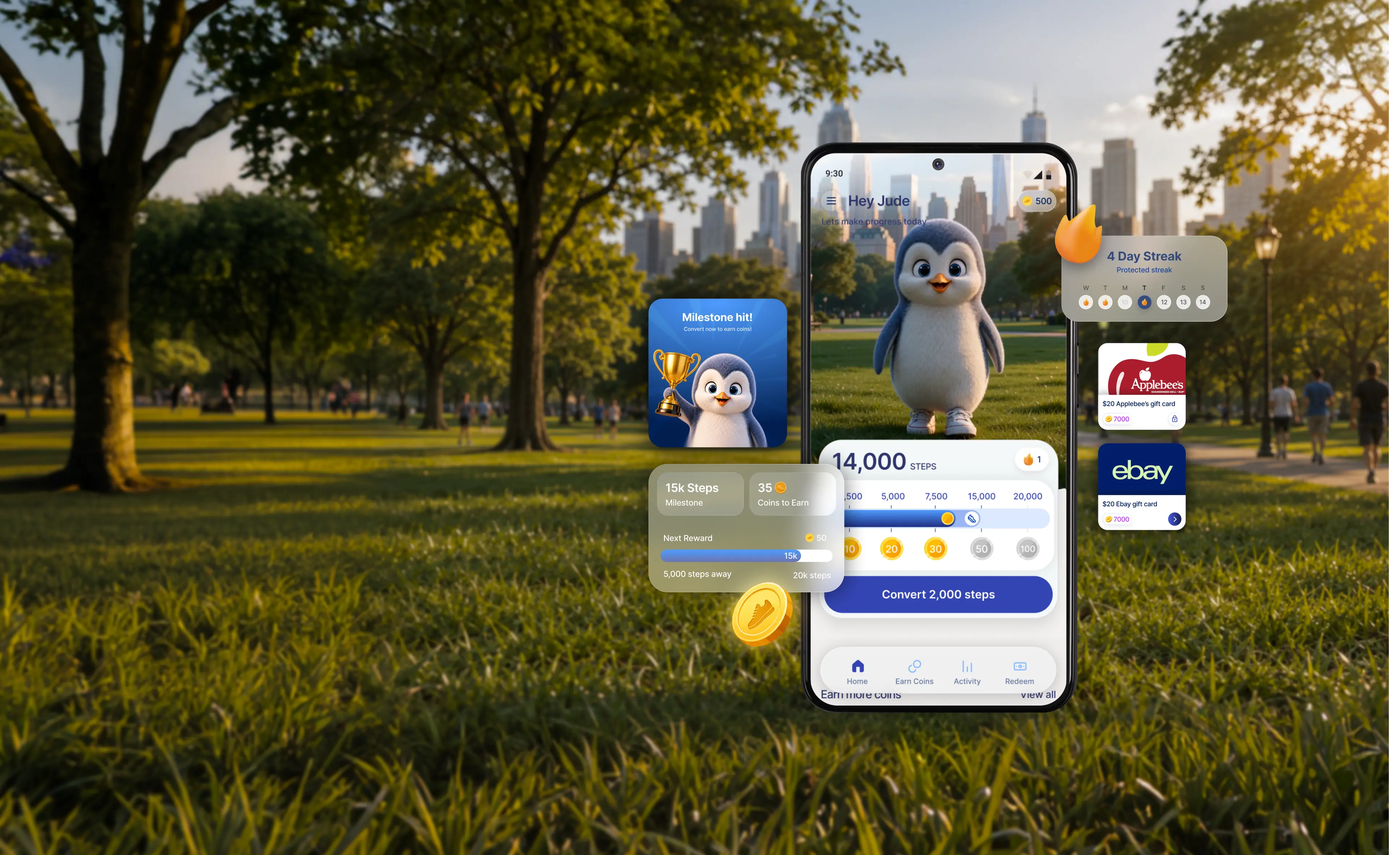
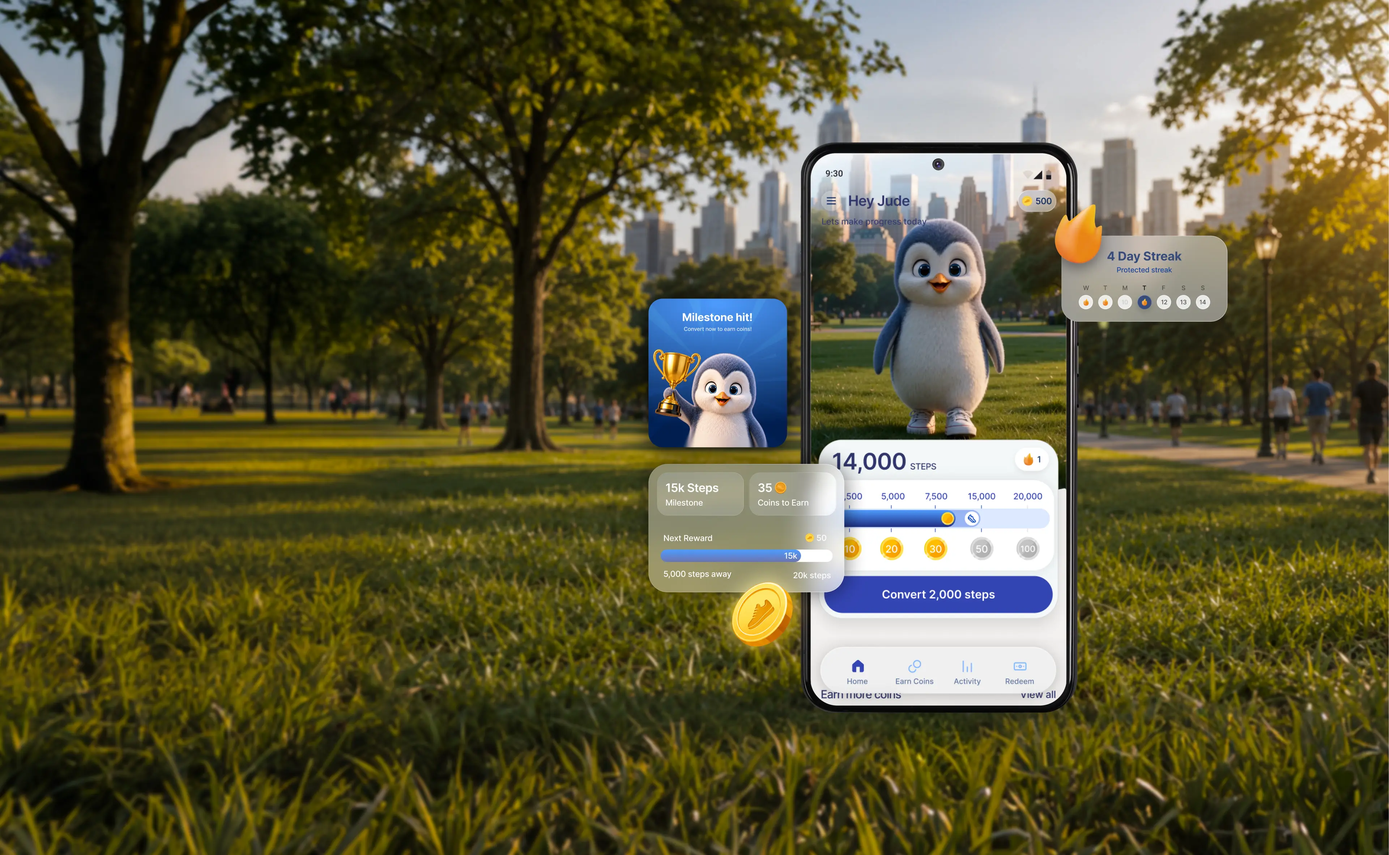
content: new Steppy scene, and the focal point to match
Same treatment as image-4. The park is re-composed and the phone sits
right of where it was — 55–72% becomes 58–78% — so the ~28% window
mobile crops to centres at 68% rather than 64%. Ground resampled from
the new art; it moved by one value per channel.

Still 3841x2363 and 380KB, so nothing changes about how it is served.

Changed region(s): [[0.781, 0.4016, 0.8748, 0.6488]]

diff --git a/src/components/folds/fold05/apps.ts b/src/components/folds/fold05/apps.ts
@@ -43,7 +43,7 @@ export interface AppPanel {
    * that window sits has to follow each scene's device, which is composed in a
    * different place every time (measured off the source art):
    *
-   *   image-1  phone 57–79%    image-2  phone 55–72%
+   *   image-1  phone 57–79%    image-2  phone 58–78%
    *   image-3  phone 57–79%    image-4  phone 57–78%
    *
    * A single shared value sliced the White Noise phone clean in half.
@@ -82,8 +82,10 @@ export const APP_PANELS: AppPanel[] = [
   {
     id: "steppy",
     background: "/images/image-2.webp",
-    ground: "#5d593a",
-    mobileFocal: "64%",
+    ground: "#5c5839",
+    // Re-composed like image-4: the phone moved right, 55–72% to 58–78%, so
+    // the window centres at 68% rather than 64%.
+    mobileFocal: "68%",
     icon: "/images/apps/steppy.png",
     title: "Steppy",
     question: "Need a push to start walking more? Walk with Steppy.",
